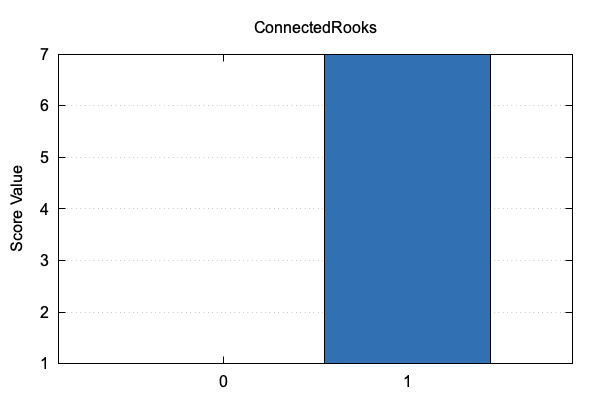
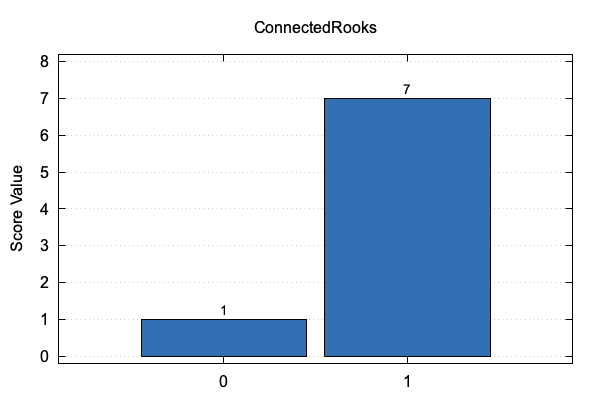
update value pair charts

diff --git a/docs/eval/plots.go b/docs/eval/plots.go
@@ -10,6 +10,7 @@ import (
 	"text/template"
 
 	"github.com/paulsonkoly/chess-3/eval"
+	"github.com/paulsonkoly/chess-3/types"
 
 	//revive:disable-next-line
 	. "github.com/paulsonkoly/chess-3/types"
@@ -93,6 +94,7 @@ set boxwidth 0.9
 set xtics ("Middle Game" 0, "End Game" 1)
 set ylabel "Score Value"
 set grid y
+set yrange [{{.YMin}}:{{.YMax}}]
 
 # Define the data
 $DATA << EOD
@@ -100,8 +102,9 @@ $DATA << EOD
 1 {{.EGValue}}
 EOD
 
-# Plot the bar chart
-plot $DATA using 2:xtic(1) with boxes lc rgb "#3070B3" notitle
+# Plot with value labels
+plot $DATA using 2:xtic(1) with boxes lc rgb "#3070B3" notitle, \
+     '' using 0:2:(sprintf("%d", $2)) with labels offset 0,0.5 font ",10" notitle
 `
 
 const markdownTemplate = `# Chess Evaluation Coefficients Visualization
@@ -143,6 +146,8 @@ type BarChart struct {
     OutputFile string
     MGValue    int
     EGValue    int
+    YMin       float64
+    YMax       float64
 }
 
 type MarkdownSection struct {
@@ -469,33 +474,45 @@ func processSimplePairedArray(mg, eg reflect.Value, name, outputFile string, sec
 }
 
 func processSingleValuePair(mg, eg reflect.Value, name, outputFile string, sections *[]MarkdownSection) {
-    mgVal := mg.Interface().(Score)
-    egVal := eg.Interface().(Score)
+    mgVal := int(mg.Interface().(types.Score)) // or whatever type your Score actually is
+    egVal := int(eg.Interface().(types.Score))
+
+    // Calculate y-range in Go
+    minVal := min(float64(mgVal), float64(egVal))
+    maxVal := max(float64(mgVal), float64(egVal))
+    rangeVal := maxVal - minVal
+    buffer := 1.0
+    if rangeVal > 0 {
+        buffer = rangeVal * 0.2 // 20% buffer
+    }
+    
+    // Handle zero values
+    if minVal == 0 && maxVal == 0 {
+        buffer = 1.0
+    }
 
     data := BarChart{
         Title:      name,
         OutputFile: outputFile,
-        MGValue:    int(mgVal),
-        EGValue:    int(egVal),
+        MGValue:    mgVal,
+        EGValue:    egVal,
+        YMin:       minVal - buffer,
+        YMax:       maxVal + buffer,
     }
 
-    tmpl, err := template.New("barchart").Parse(barChartTemplate)
-    if err != nil {
-        fmt.Printf("Error creating template: %v\n", err)
-        return
-    }
-
+    tmpl := template.Must(template.New("barchart").Parse(barChartTemplate))
+    
     var script bytes.Buffer
     if err := tmpl.Execute(&script, data); err != nil {
-        fmt.Printf("Error executing template: %v\n", err)
+        fmt.Printf("Template error for %s: %v\n", name, err)
         return
     }
 
     runGnuplot(script.String(), outputFile)
 
     *sections = append(*sections, MarkdownSection{
-        Title:     name,
-        ImagePath: outputFile,
+        Title:       name,
+        ImagePath:   outputFile,
         Description: fmt.Sprintf("Middle Game: %d | End Game: %d", mgVal, egVal),
     })
 }
@@ -524,11 +541,18 @@ func processKnightOutpost(field reflect.Value, name string, sections *[]Markdown
 }
 
 func runGnuplot(script, outputFile string) {
-	cmd := exec.Command("gnuplot")
-	cmd.Stdin = strings.NewReader(script)
-	if err := cmd.Run(); err != nil {
-		fmt.Printf("Error running gnuplot for %s: %v\n", outputFile, err)
-	}
+    cmd := exec.Command("gnuplot")
+    cmd.Stdin = strings.NewReader(script)
+    
+    // Capture stderr for error reporting
+    var stderr bytes.Buffer
+    cmd.Stderr = &stderr
+    
+    if err := cmd.Run(); err != nil {
+        fmt.Printf("Error running gnuplot for %s: %v\n", outputFile, err)
+        fmt.Printf("Gnuplot stderr:\n%s\n", stderr.String())
+        fmt.Printf("Script content:\n%s\n", script)
+    }
 }
 
 func generateMarkdown(sections []MarkdownSection) {
